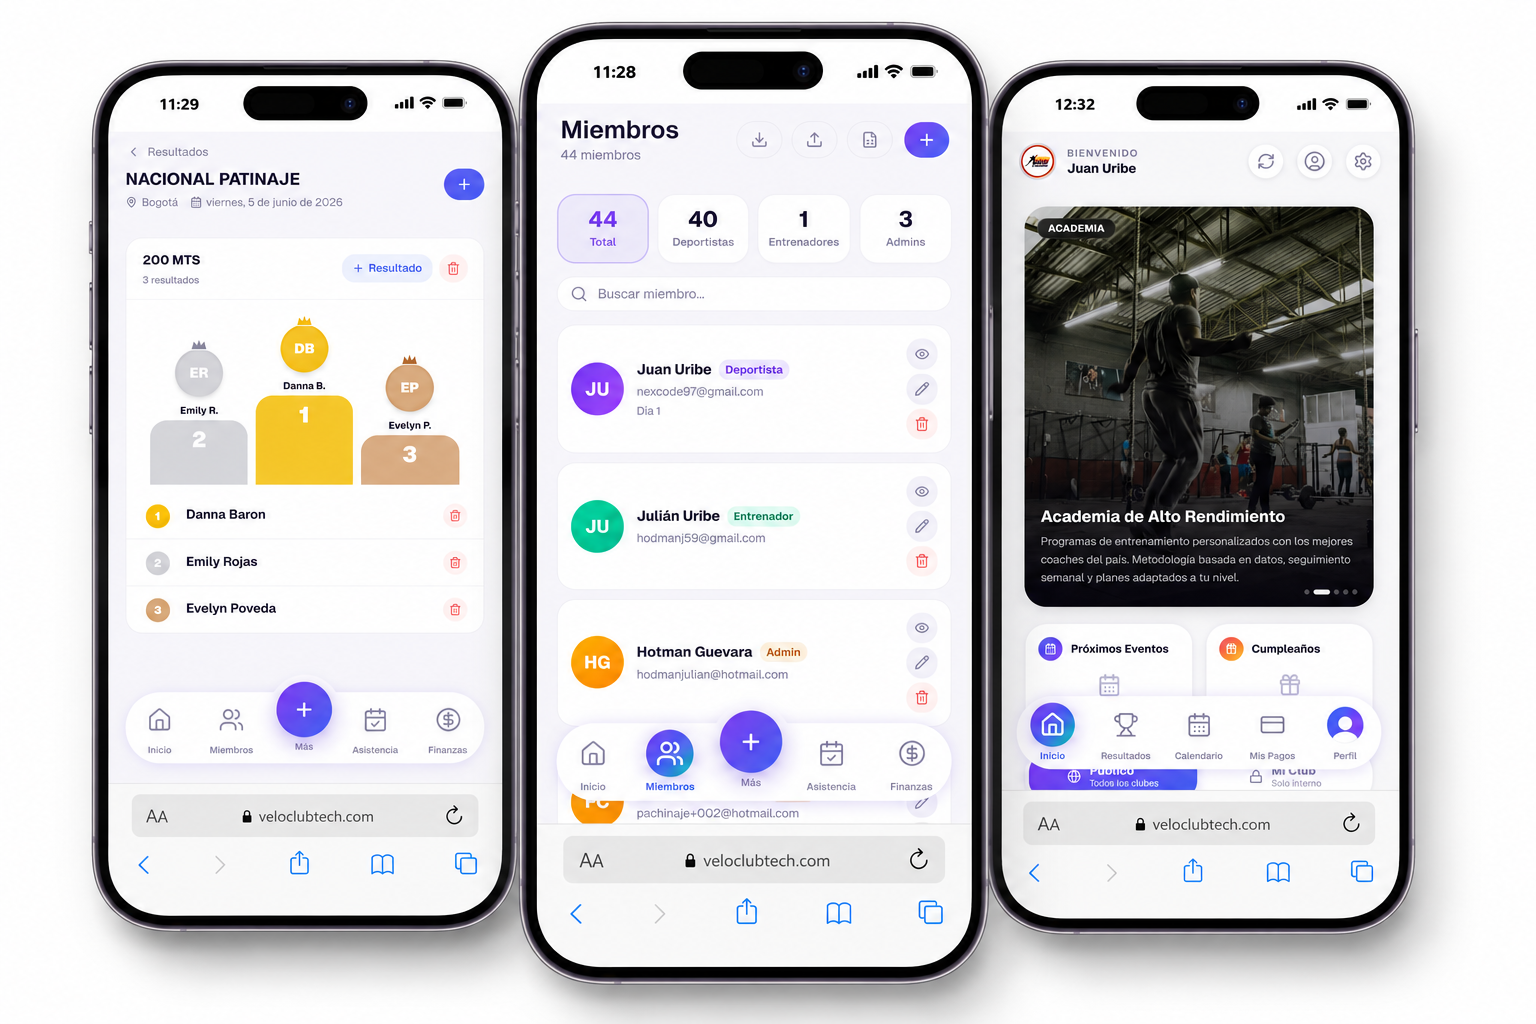
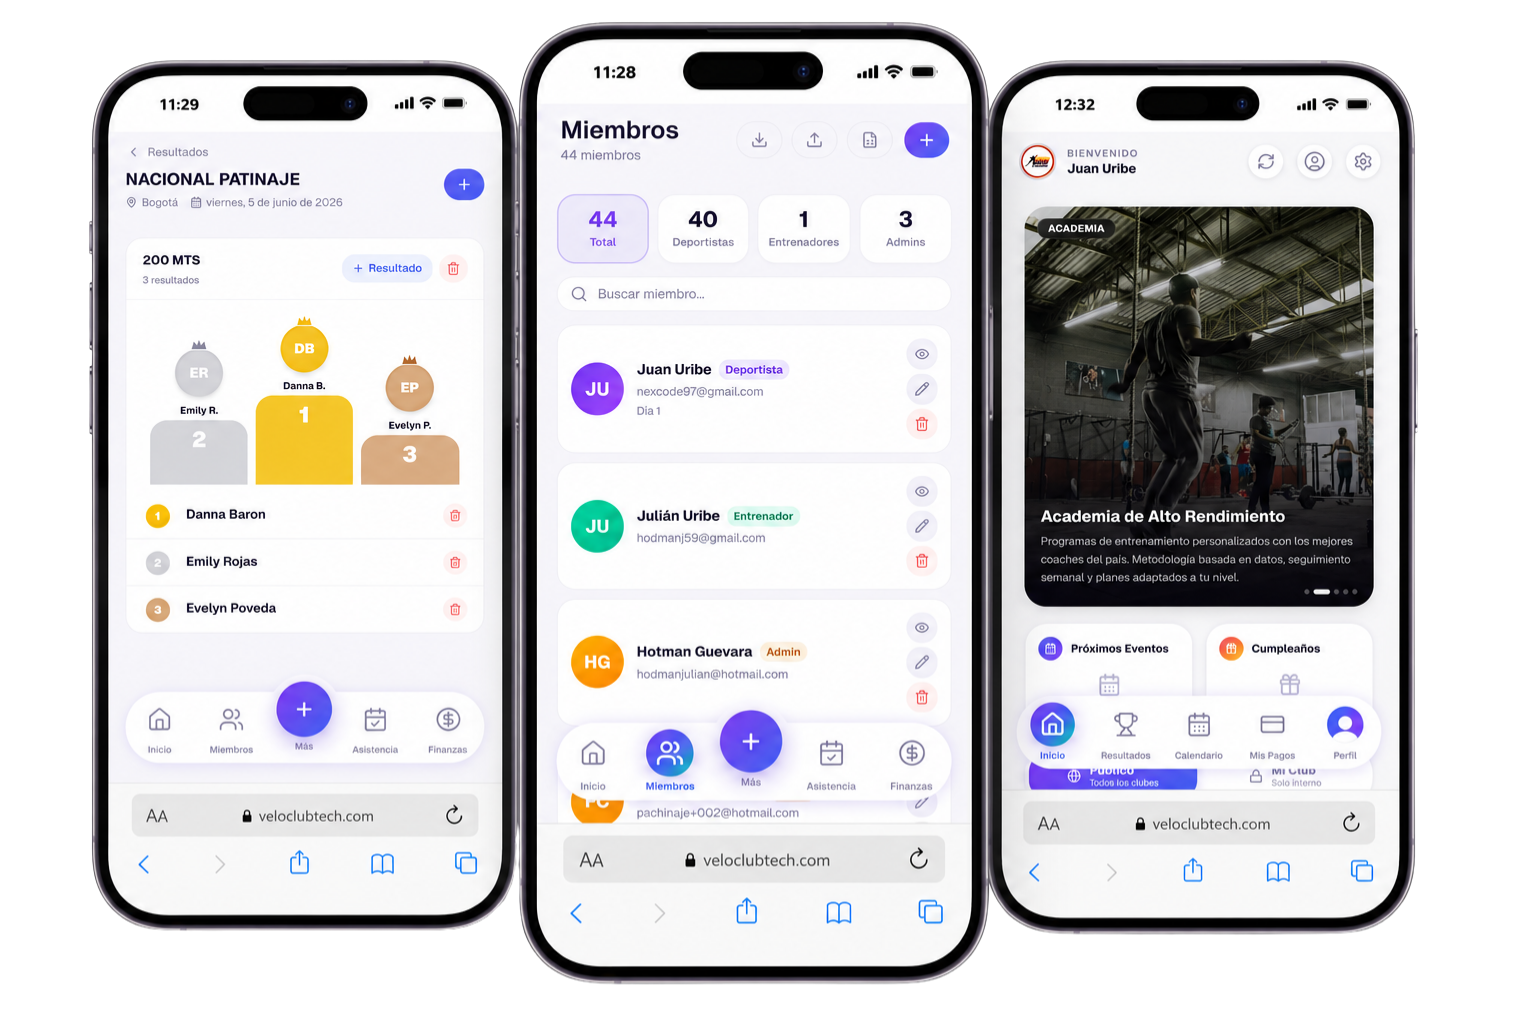
fix: reemplazar imágenes showcase con versiones sin fondo

diff --git a/web/components/services-section.tsx b/web/components/services-section.tsx
@@ -124,8 +124,9 @@ export const ServicesSection = () => {
         >
           <div ref={desktopRef} className="showcase-img img-desktop relative w-[62%] rounded-xl overflow-hidden cursor-pointer"
             style={{ boxShadow: "0 4px 24px rgba(0,0,0,0.15)", zIndex: 2 }}>
-            <Image src="/showcase-desktop.png" alt="Proyecto versión escritorio" width={800} height={500}
-              className="w-full h-auto" />
+            <Image src="/showcase-desktop.webp" alt="Proyecto versión escritorio" width={800} height={500}
+              className="w-full h-auto"
+              onLoad={() => { if (desktopRef.current) setDesktopH(desktopRef.current.offsetHeight); }} />
           </div>
           <div className="showcase-img img-mobile relative -ml-[4%] rounded-xl overflow-hidden cursor-pointer"
             style={{ boxShadow: "0 4px 24px rgba(0,0,0,0.15)", zIndex: 1, height: desktopH || "auto" }}>
